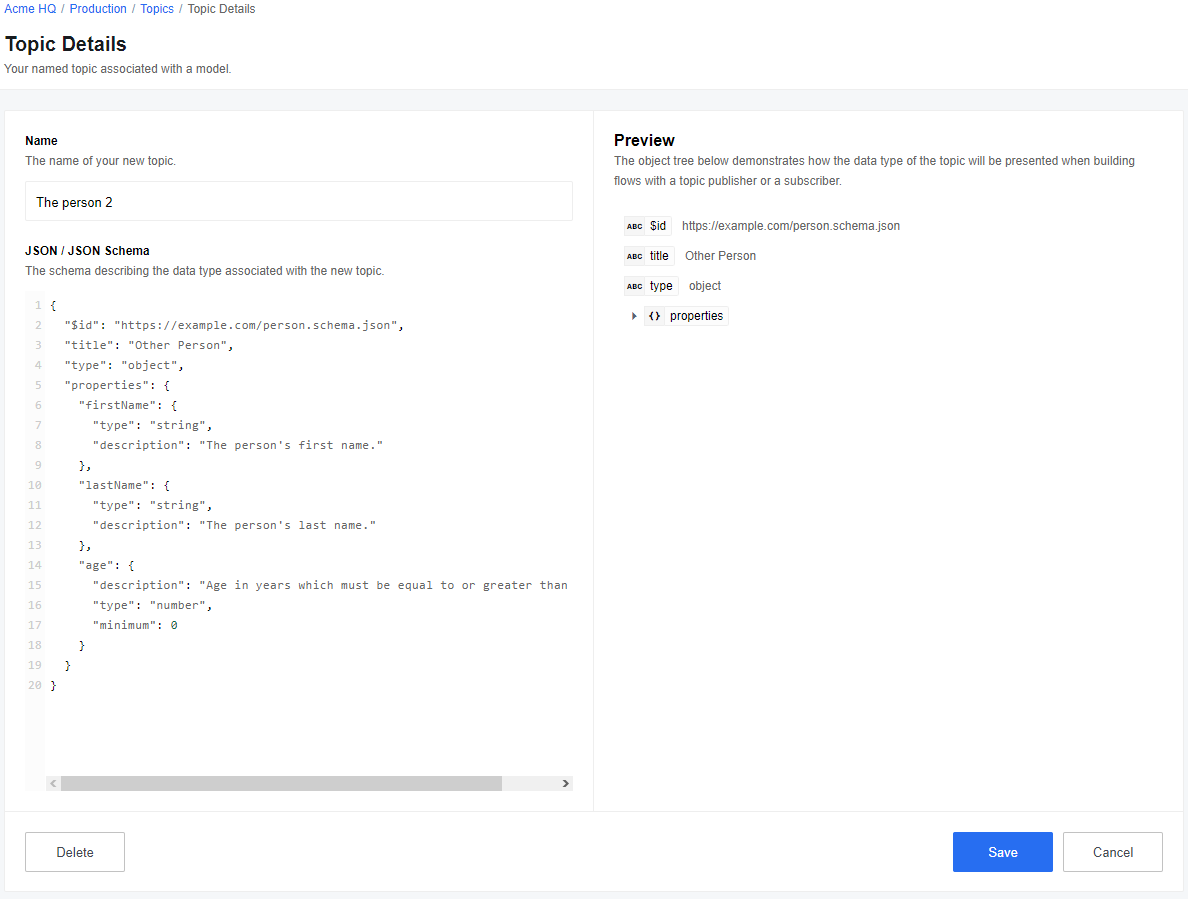
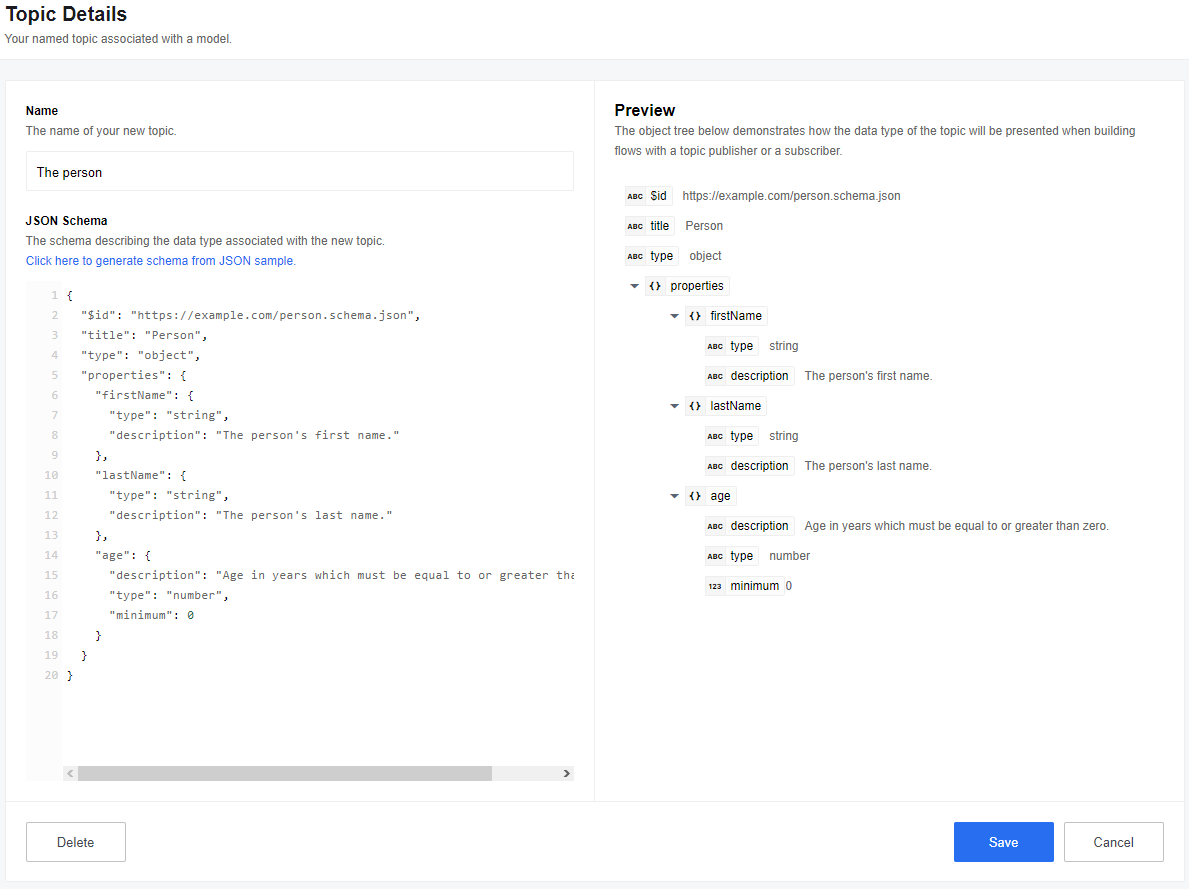
Working on topics

diff --git a/content/_getting-started/topics.md b/content/_getting-started/topics.md
@@ -13,7 +13,7 @@ A Topic is a named JSON schema you can use to communicate in a [publish–subscr
 * a unique name within the Workspace
 * JSON schema describing the objects to be exchanged
 
-## How to create and manage Topics
+## Creating Topics
 
 Topic can be created via UI or API-call:
 
@@ -29,6 +29,8 @@ Topic can be created via UI or API-call:
 
   ![New topic](/assets/img/getting-started/topics/new-topic.png)
 
+## Editing Topics
+
 To make changes to an existing topic, select the topic you need and then click "Edit". You can also delete this topic by clicking "Delete":
 
   ![Edit topic](/assets/img/getting-started/topics/edit-topic.png)
@@ -36,6 +38,20 @@ To make changes to an existing topic, select the topic you need and then click "
 Here you can change the Topic name and JSON-schema and then save your changes:
 
   ![Editing topic](/assets/img/getting-started/topics/editing-topic.png)
+
+## Generating schema for JSON sample
+
+You can also generate a JSON schema from an existing JSON sample by clicking the corresponding button:
+
+  ![Generate Schema](/assets/img/getting-started/topics/generate-schema.png)
+
+Then you can insert a JSON sample and generate a new schema:
+
+  ![Insert JSON sample](/assets/img/getting-started/topics/insert-sample.png)
+
+After that you can edit the new generated schema with all the necessary information:
+
+  ![Editing schema](/assets/img/getting-started/topics/editing-schema.png)
 
 ## Usage Example
 
